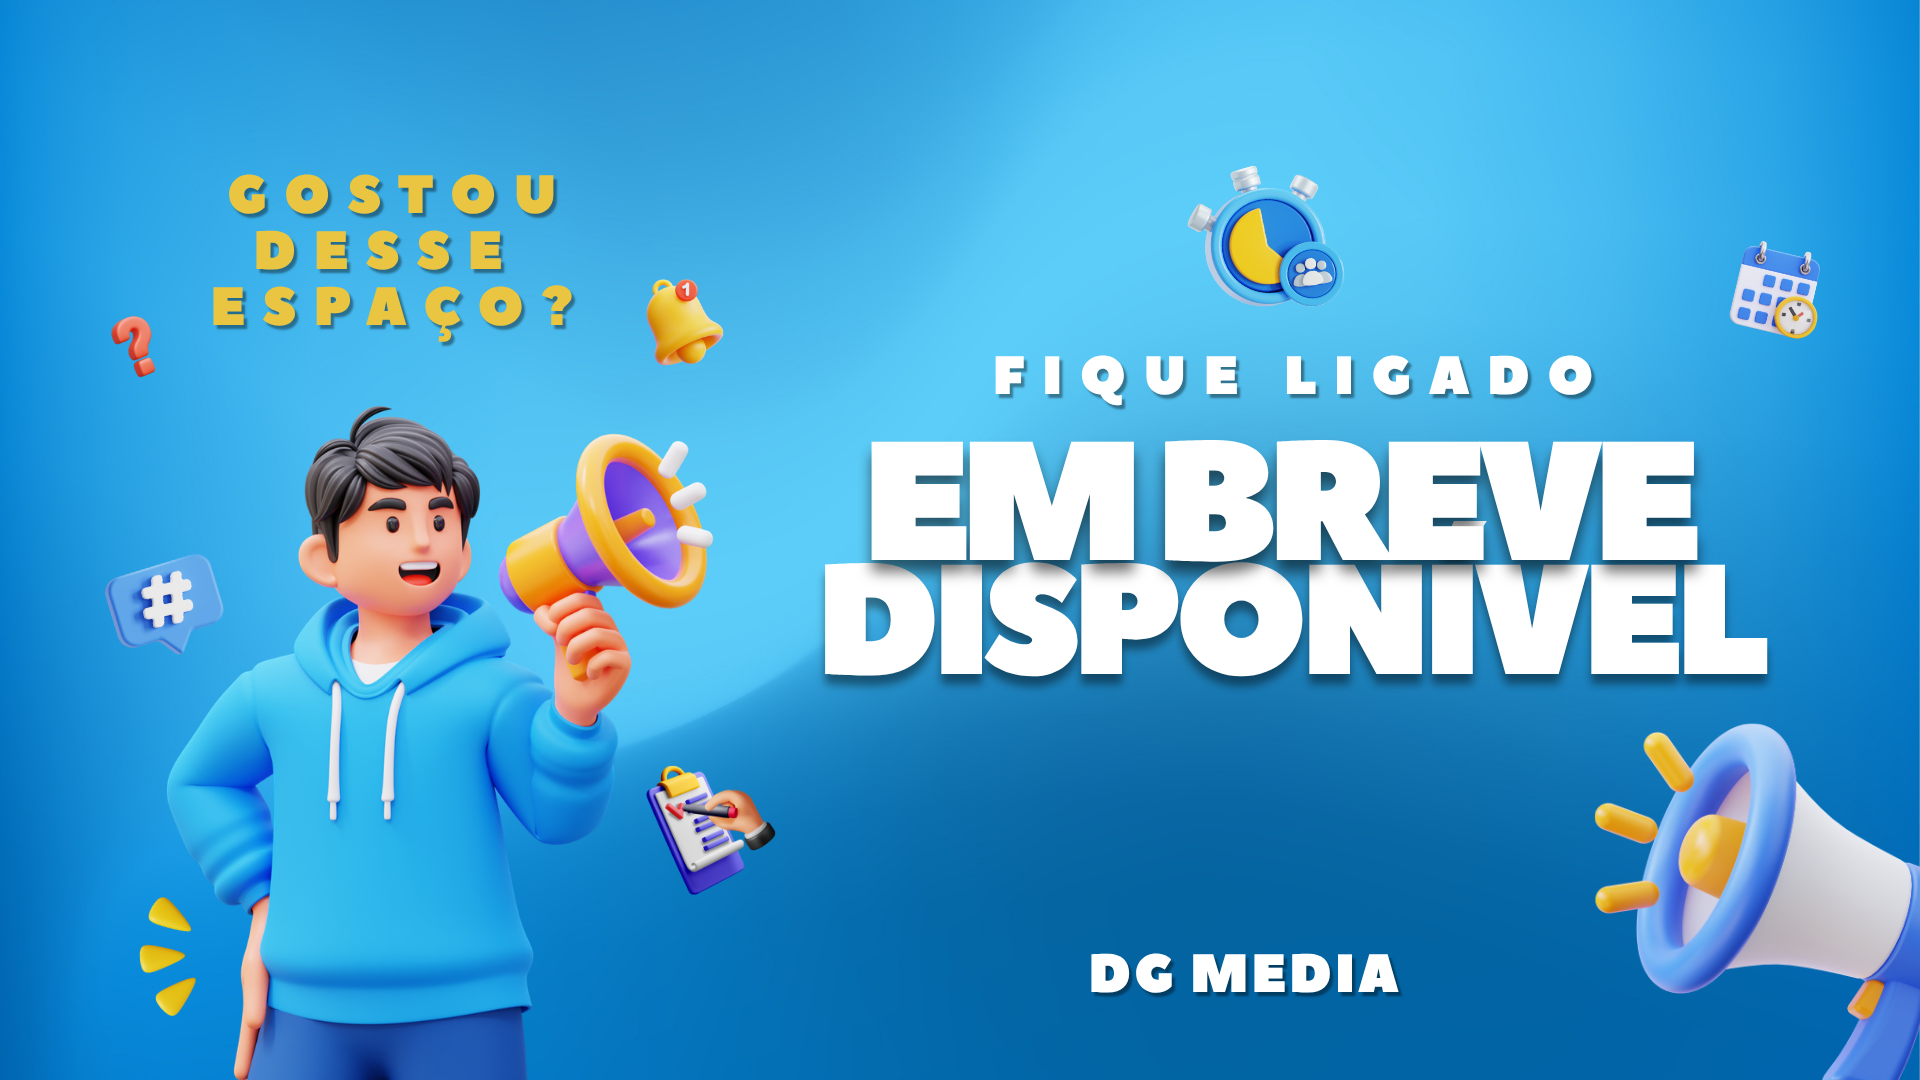
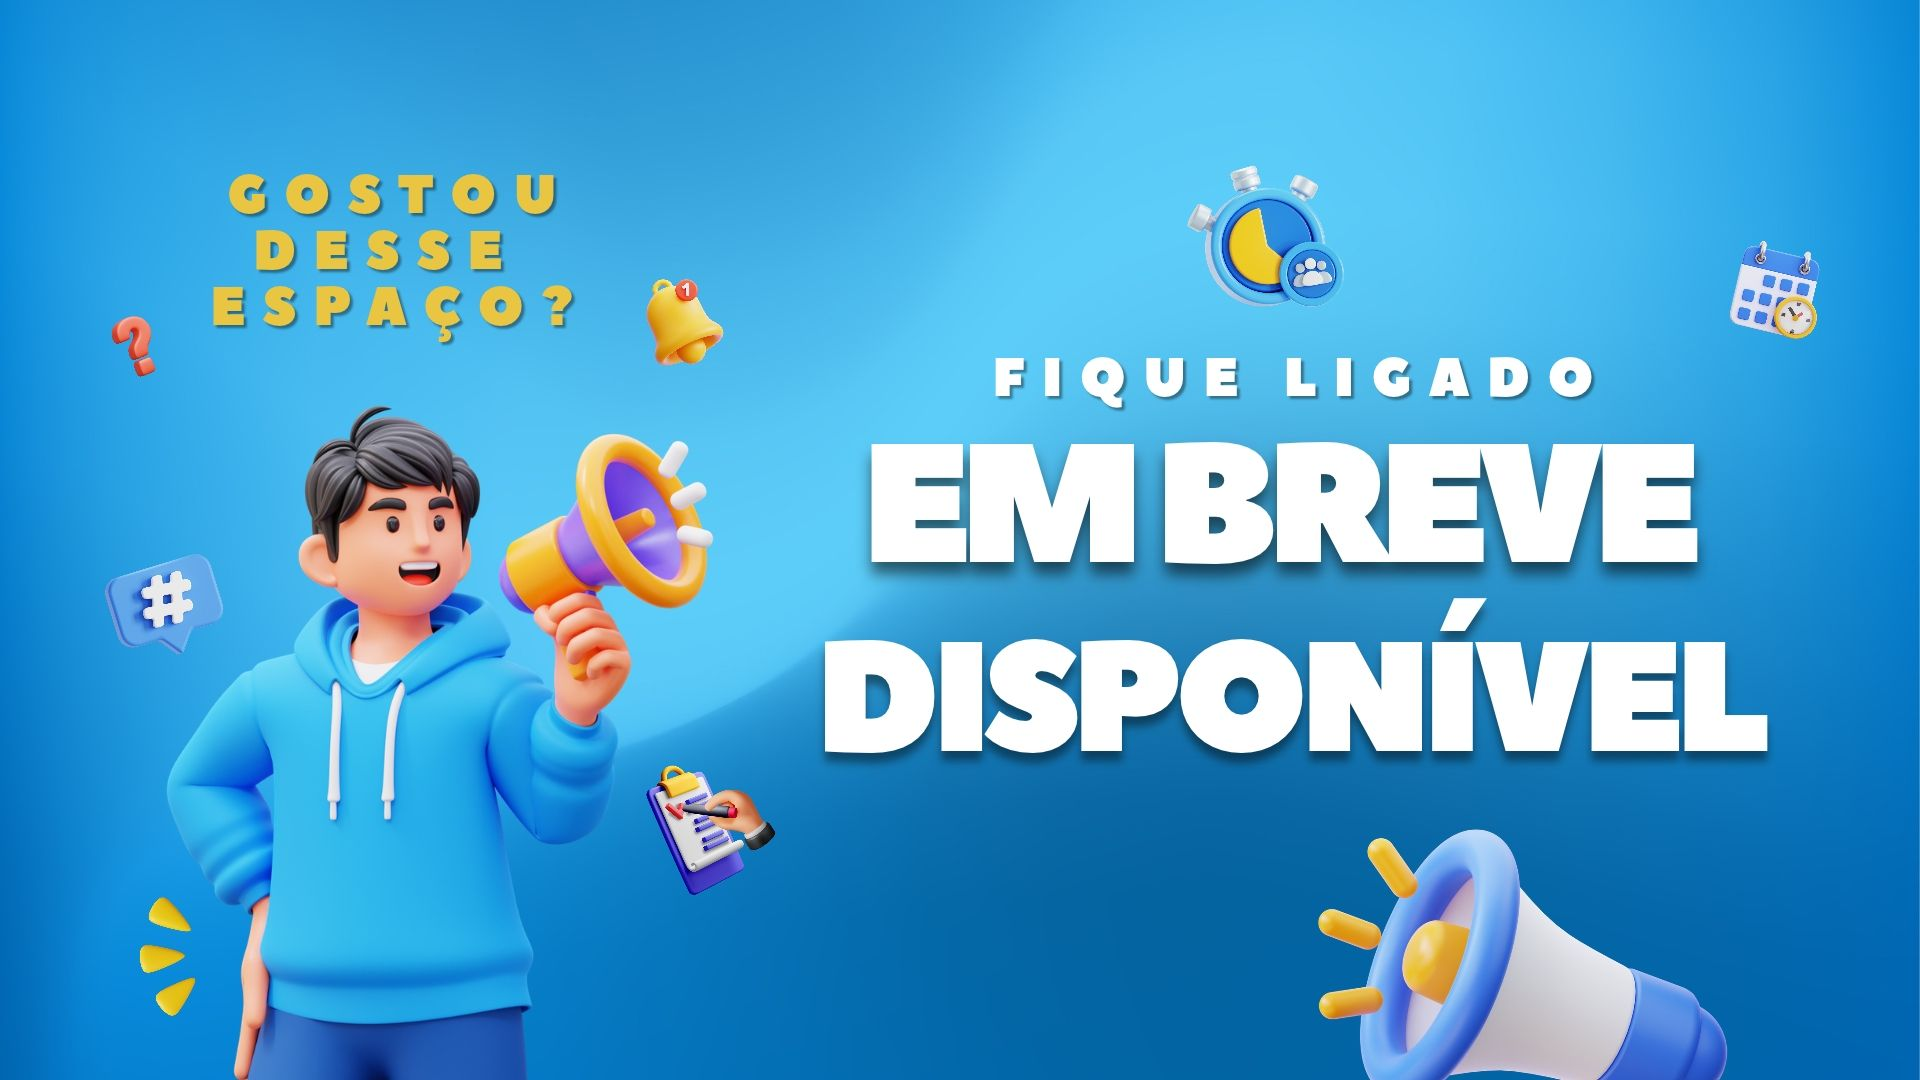
corregido tela inicial e slide de propaganda

diff --git a/style.css b/style.css
@@ -8,10 +8,10 @@ body { background: #061b45; }
 /* ========================================
    TELA INICIAL — PREMIUM DIGITAL SIGNAGE
    A imagem final será aplicada neste caminho:
-   assets/images/media-mvp-background.jpg
+   assets/images/media-mvp-background.png
    ======================================== */
 #start-screen {
-    --welcome-bg: url("assets/images/media-mvp-background.jpg");
+    --welcome-bg: url("assets/images/media-mvp-background.png");
     position: fixed;
     inset: 0;
     z-index: 9999;

diff --git a/sw.js b/sw.js
@@ -1,4 +1,4 @@
-const APP_VERSION = "2026-11-03-3";
+const APP_VERSION = "2026-11-10-1";
 
 const CACHE_NAME = `media-player-${APP_VERSION}`;
 
@@ -7,7 +7,8 @@ const FILES_TO_CACHE = [
     "./index.html",
     "./style.css",
     "./app.js",
-    "./manifest.json"
+    "./manifest.json",
+    "./assets/images/media-mvp-background.png"
 ];
 
 
